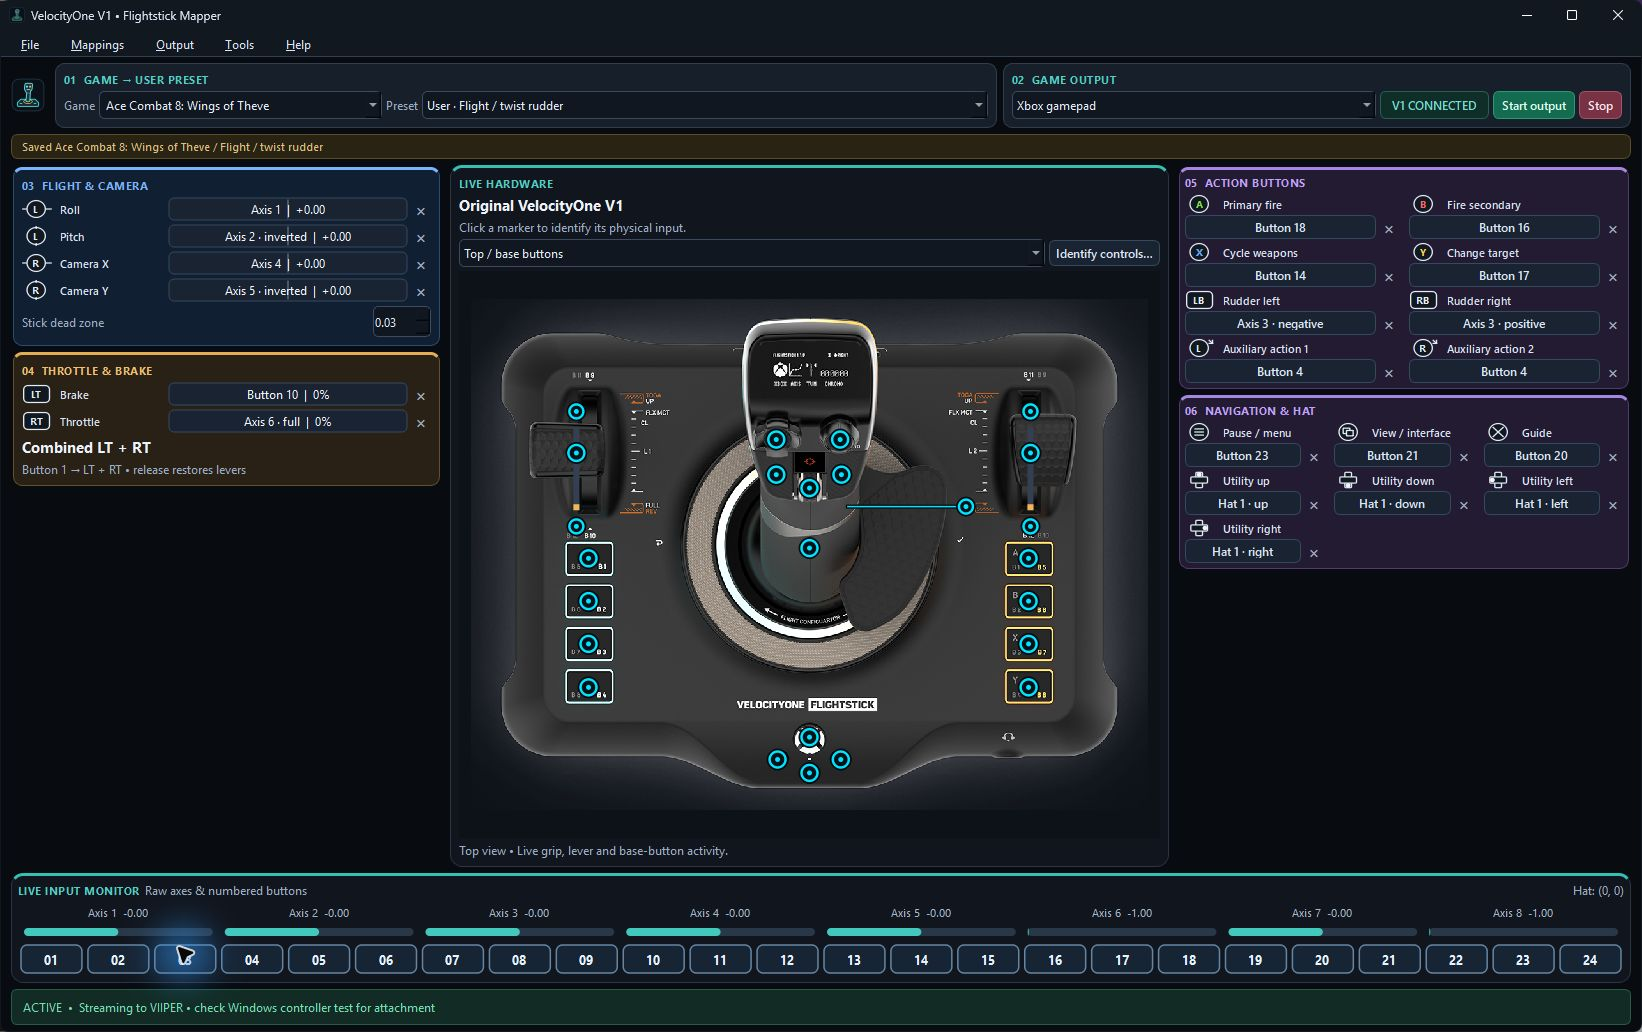
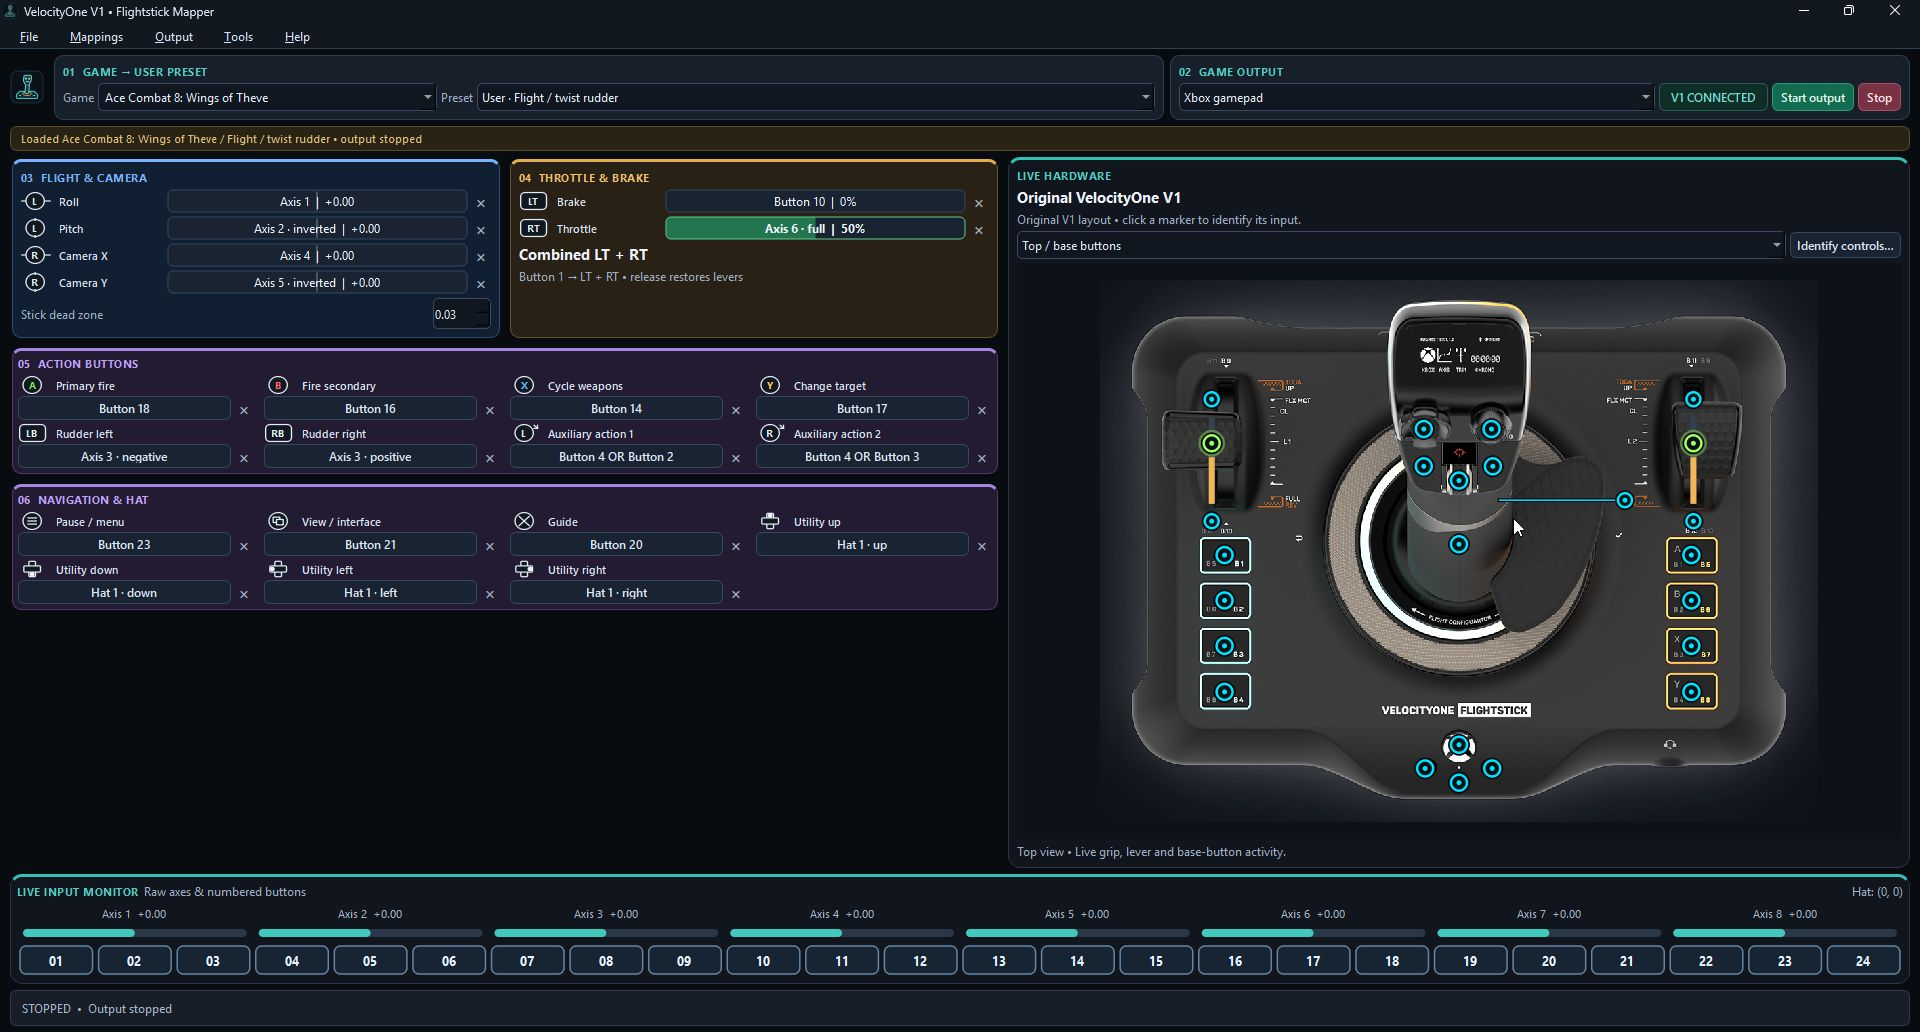
Show actual running two-pane workspace in public screenshot

diff --git a/docs/index.html b/docs/index.html
@@ -15,10 +15,11 @@
 <header><a class="brand" href="https://github.com/mnwinter/VelocityOne_FlightStick_Mapper_V1">VELOCITYONE MAPPER / V1</a><nav aria-label="Main"><a href="#setup">Setup</a><a href="https://github.com/mnwinter/VelocityOne_FlightStick_Mapper_V1/issues/new/choose">Feedback</a><a href="https://github.com/mnwinter/VelocityOne_FlightStick_Mapper_V1">GitHub ↗</a></nav></header>
 <main id="main">
 <section class="hero"><div class="eyebrow">Independent · Open source · Windows 11 x64</div><h1>Your flightstick.<br><span>Your control layout.</span></h1><p class="lead">Turn the original VelocityOne Flightstick V1 into your own gamepad or keyboard/mouse setup—with live input graphics, presets for each game, and macros that work your way.</p><div class="actions"><a class="button primary" href="https://github.com/mnwinter/VelocityOne_FlightStick_Mapper_V1/releases/tag/v0.1.3">Download the preview ↗</a><a class="button" href="https://github.com/mnwinter/VelocityOne_FlightStick_Mapper_V1">Explore the source</a></div><p class="small">Original V1 in PC mode · GPL-3.0-only · No x360ce or ViGEm</p></section>
-<figure><img src="assets/workspace-live.jpg" width="1642" height="1032" alt="Actual running mapper with V1 connected and Ace Combat 8 preset loaded"><figcaption>Actual screenshot of the running app with the original V1 connected. v0.1.3 restores the real V1 controller images.</figcaption></figure>
+<figure><img src="assets/workspace-live.jpg" width="1920" height="1032" alt="Actual running mapper with V1 connected and Ace Combat 8 preset loaded"><figcaption>Actual screenshot of the running app with the original V1 connected. v0.1.3 restores the real V1 controller images.</figcaption></figure>
 <section aria-labelledby="features"><h2 id="features" class="section-title">A workspace for the way you fly.</h2><div class="cards"><article class="card"><span class="num">01 / SEE</span><h3>Know what is moving.</h3><p>Watch stick, slider and button activity. Learn physical inputs and inspect mapped output before taking it into a game.</p></article><article class="card"><span class="num">02 / MAP</span><h3>Keep a setup per game.</h3><p>Build your own presets or edit 32 proposed starters across 16 flight and space titles. Keep calibrated directions and name your actions.</p></article><article class="card"><span class="num">03 / SEQUENCE</span><h3>Make buttons do more.</h3><p>Combine simultaneous outputs, ordered steps and delays. Run macros once, by count, while held, or as a toggle.</p></article></div></section>
 <section class="setup" id="setup" aria-labelledby="setup-title"><div><div class="eyebrow">Before your first flight</div><h2 id="setup-title" class="section-title">Connect. Map. Verify.</h2><p>Release downloads include the Python/Qt/SDL runtime, VIIPER backend and signed USBIP installer. Read the <a href="https://github.com/mnwinter/VelocityOne_FlightStick_Mapper_V1#requirements">Windows and Microsoft runtime prerequisites</a>.</p><div class="notice"><strong>Ace Combat 8 is the only game tested so far. All other game presets are untested.</strong> This is a preview. The mapper itself is unsigned. Verify the release checksum and review setup instructions. Virtual Xbox output needs an explicit administrator-approved USBIP driver installation. Proposed layouts require testing in your game; V2, Flightdeck and other HOTAS models are not claimed compatible.</div></div><div><ol><li>Connect the original V1 in <strong>PC mode</strong> and close other mappers.</li><li>Open <strong>Tools → Driver setup / dependencies</strong> for virtual Xbox output.</li><li>Select a game and preset. Learn your controls, check direction and save your layout.</li><li>For thumbwheel up/down, set the stick OLED to <strong>Trim Wheel → Response → Digital Buttons</strong>, then Learn each direction separately. Wheel press is Button 15.</li><li>Start output, verify the virtual controller in Windows, then check your game's bindings.</li></ol><p><a href="https://github.com/mnwinter/VelocityOne_FlightStick_Mapper_V1#quick-start">Read the complete setup guide →</a></p><p class="small">Ctrl+Alt+F12 stops output while the UI is responsive. Keyboard/mouse injection and virtual controllers may be restricted by individual games.</p></div></section>
 <section class="card" style="margin-bottom:56px"><div class="eyebrow">Built with owner feedback</div><h2 class="section-title" style="margin:14px 0">Help make the next flight smoother.</h2><p>Report measured input identities, reproducible bugs and game-specific results. Include versions and your control scheme; redact personal information from logs and profiles.</p><div class="actions"><a class="button" href="https://github.com/mnwinter/VelocityOne_FlightStick_Mapper_V1/issues/new/choose">Report an issue</a><a class="button" href="https://github.com/mnwinter/VelocityOne_FlightStick_Mapper_V1/blob/main/CONTRIBUTING.md">Contribute</a></div></section>
 </main><footer><p>Independent community project. Turtle Beach, VelocityOne and Xbox are their owners' trademarks; this project is not endorsed by or affiliated with their manufacturers.</p><p><a href="https://github.com/mnwinter/VelocityOne_FlightStick_Mapper_V1/blob/main/LICENSE">GPL-3.0-only</a> · <a href="https://github.com/mnwinter/VelocityOne_FlightStick_Mapper_V1/blob/main/THIRD_PARTY.md">Dependency notices</a> · Static page, no analytics or external scripts.</p></footer>
 </div></body></html>
+
 
